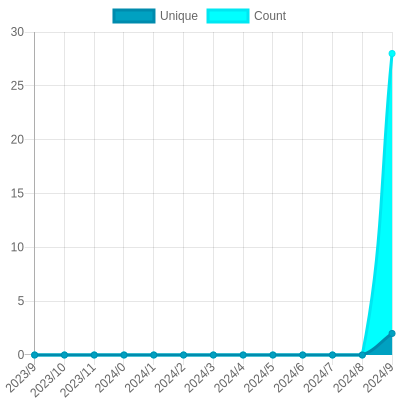
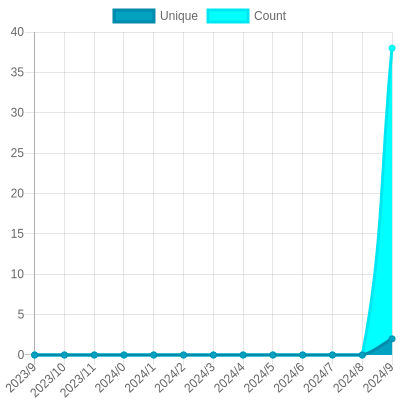
Update views

diff --git a/readme/704993170/year.md b/readme/704993170/year.md
@@ -26,7 +26,7 @@
 			<code>2</code>
 		</td>
 		<td>
-			<code>28</code>
+			<code>38</code>
 		</td>
 	</tr>
 	<tr>
@@ -164,7 +164,7 @@
 </table>
 
 </details>
-<small><i>Last updated on 2023/10/15 12:13 PM UTC</i></small>
+<small><i>Last updated on 2023/10/15 6:09 PM UTC</i></small>
 
 ## ✂Copy and 📋 Paste
 ### SVG Badge

diff --git a/README.md b/README.md
@@ -37,7 +37,7 @@ The project created and maintained by [gayanvoice](https://github.com/gayanvoice
 	</tr>
 </table>
 
-<small><i>Last updated on 2023/10/15 12:13 PM UTC</i></small>
+<small><i>Last updated on 2023/10/15 6:09 PM UTC</i></small>
 
 ## ✂Copy and 📋 Paste
 ### Total Views Badge
